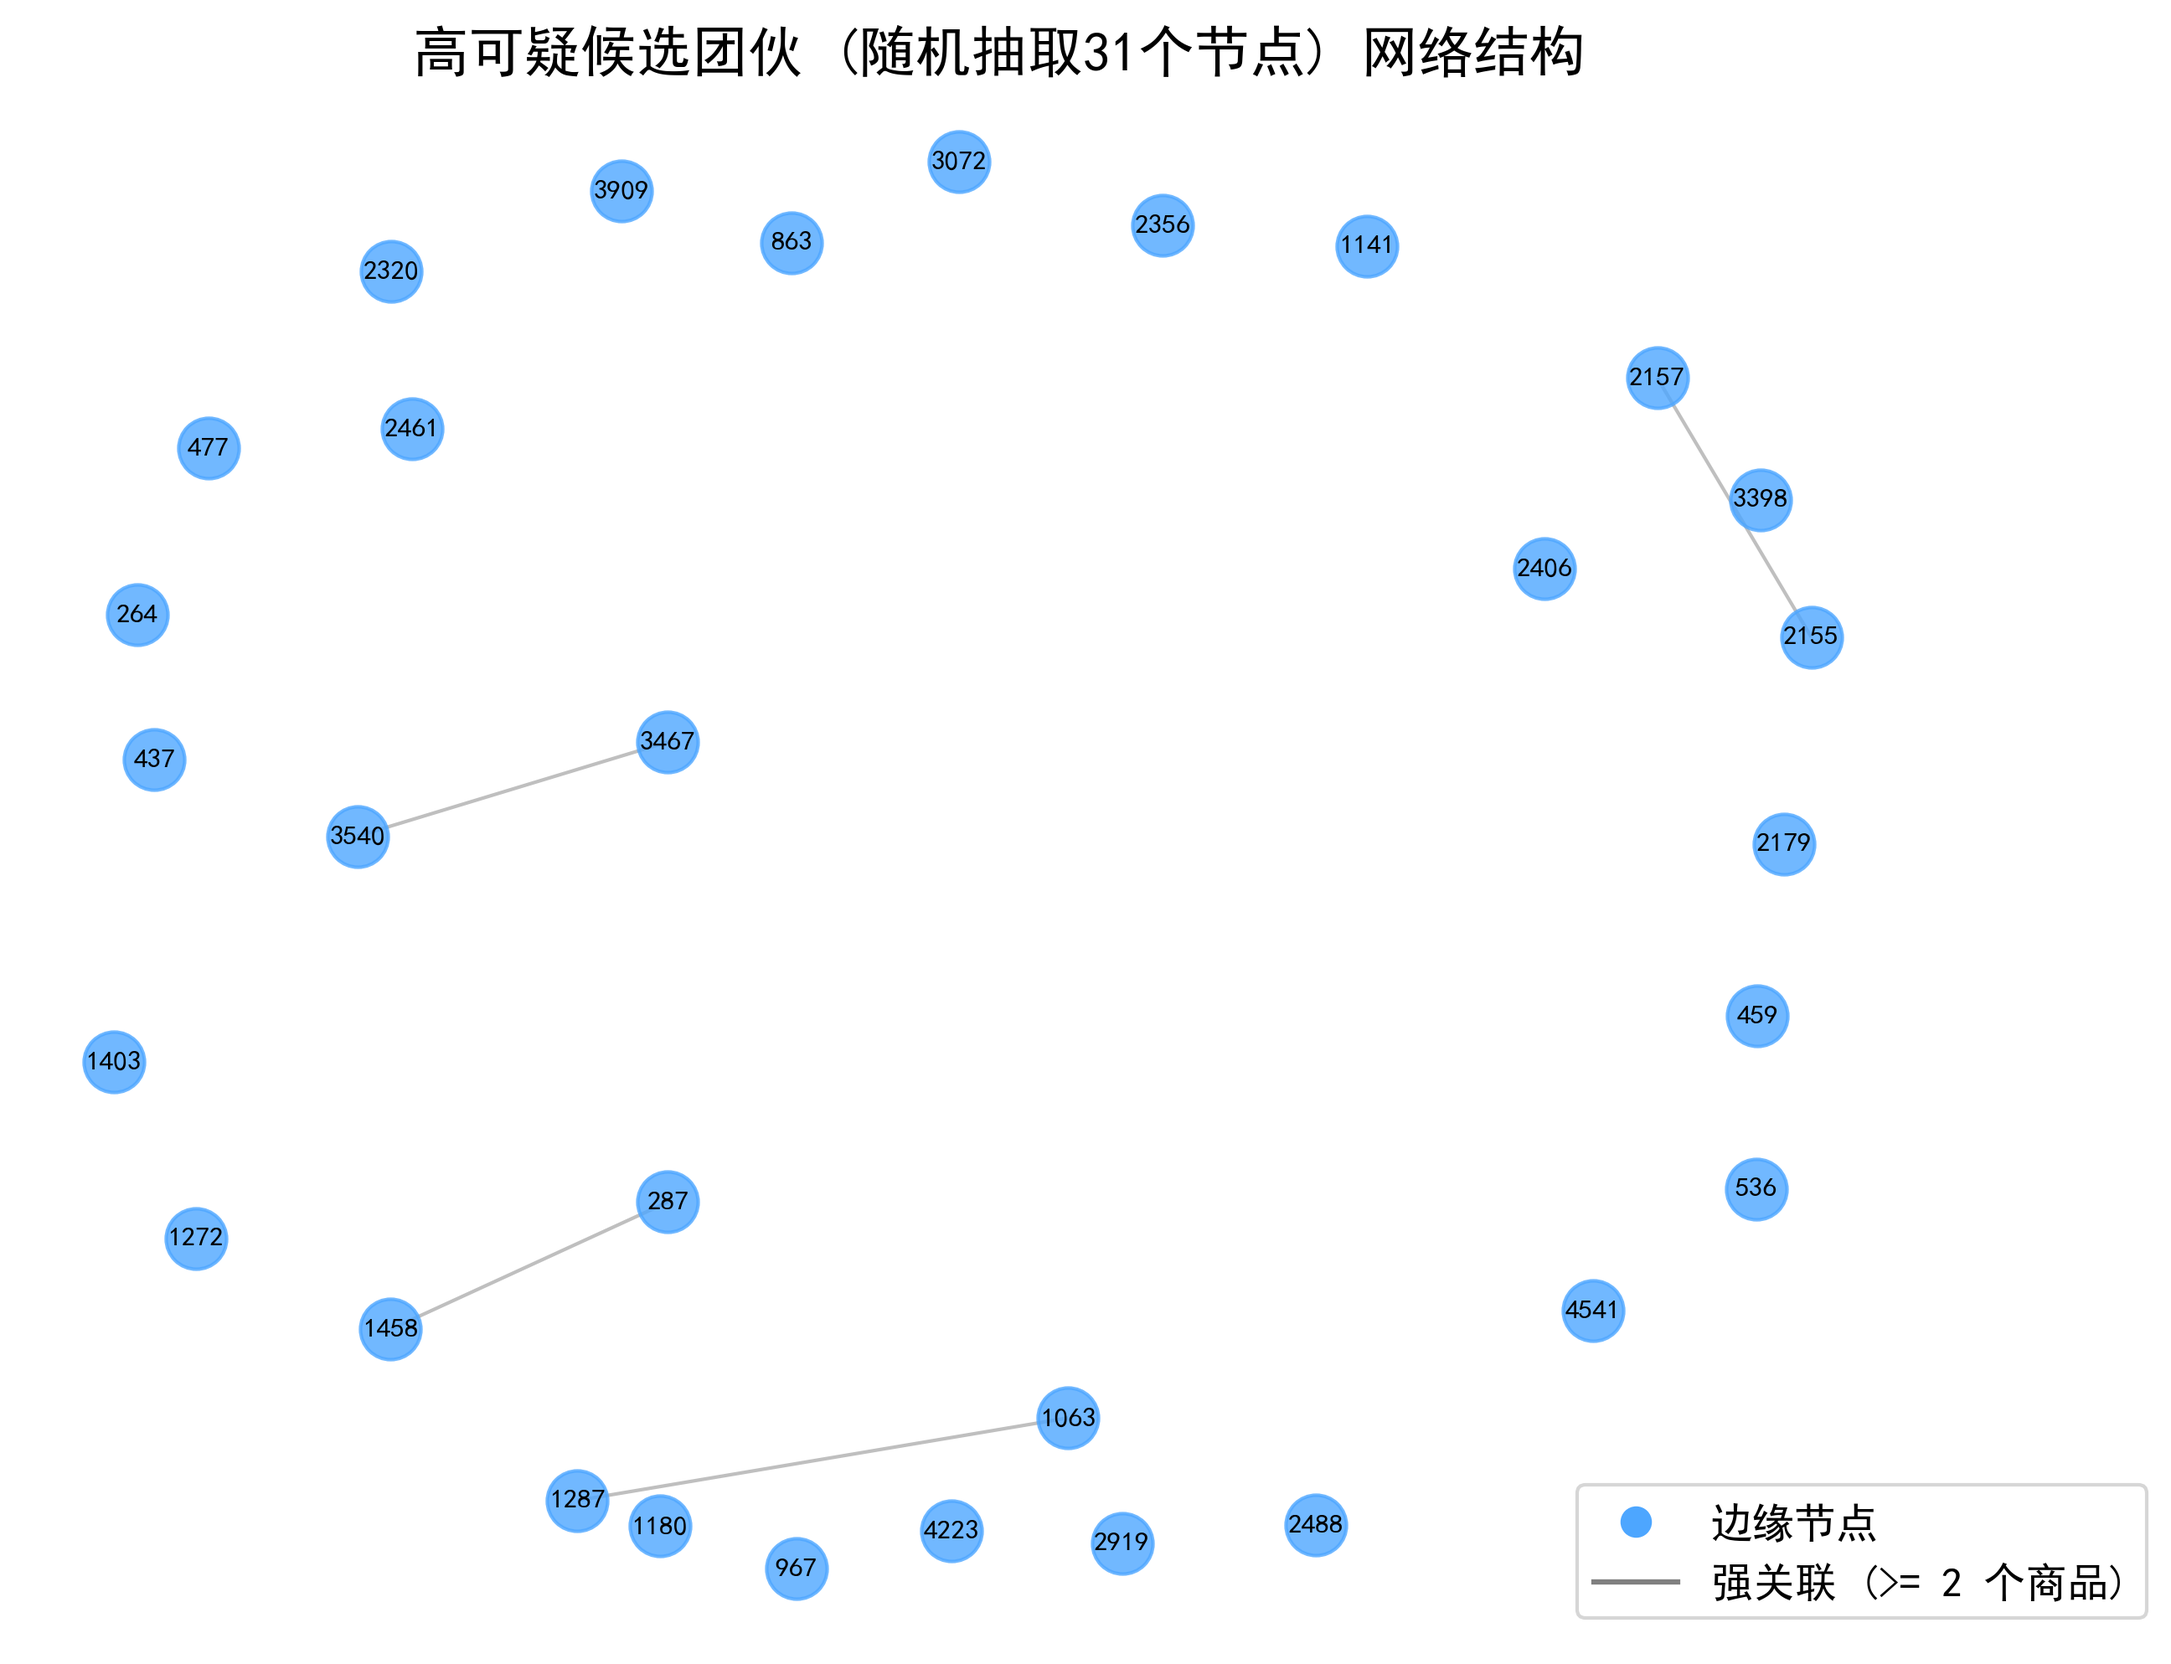
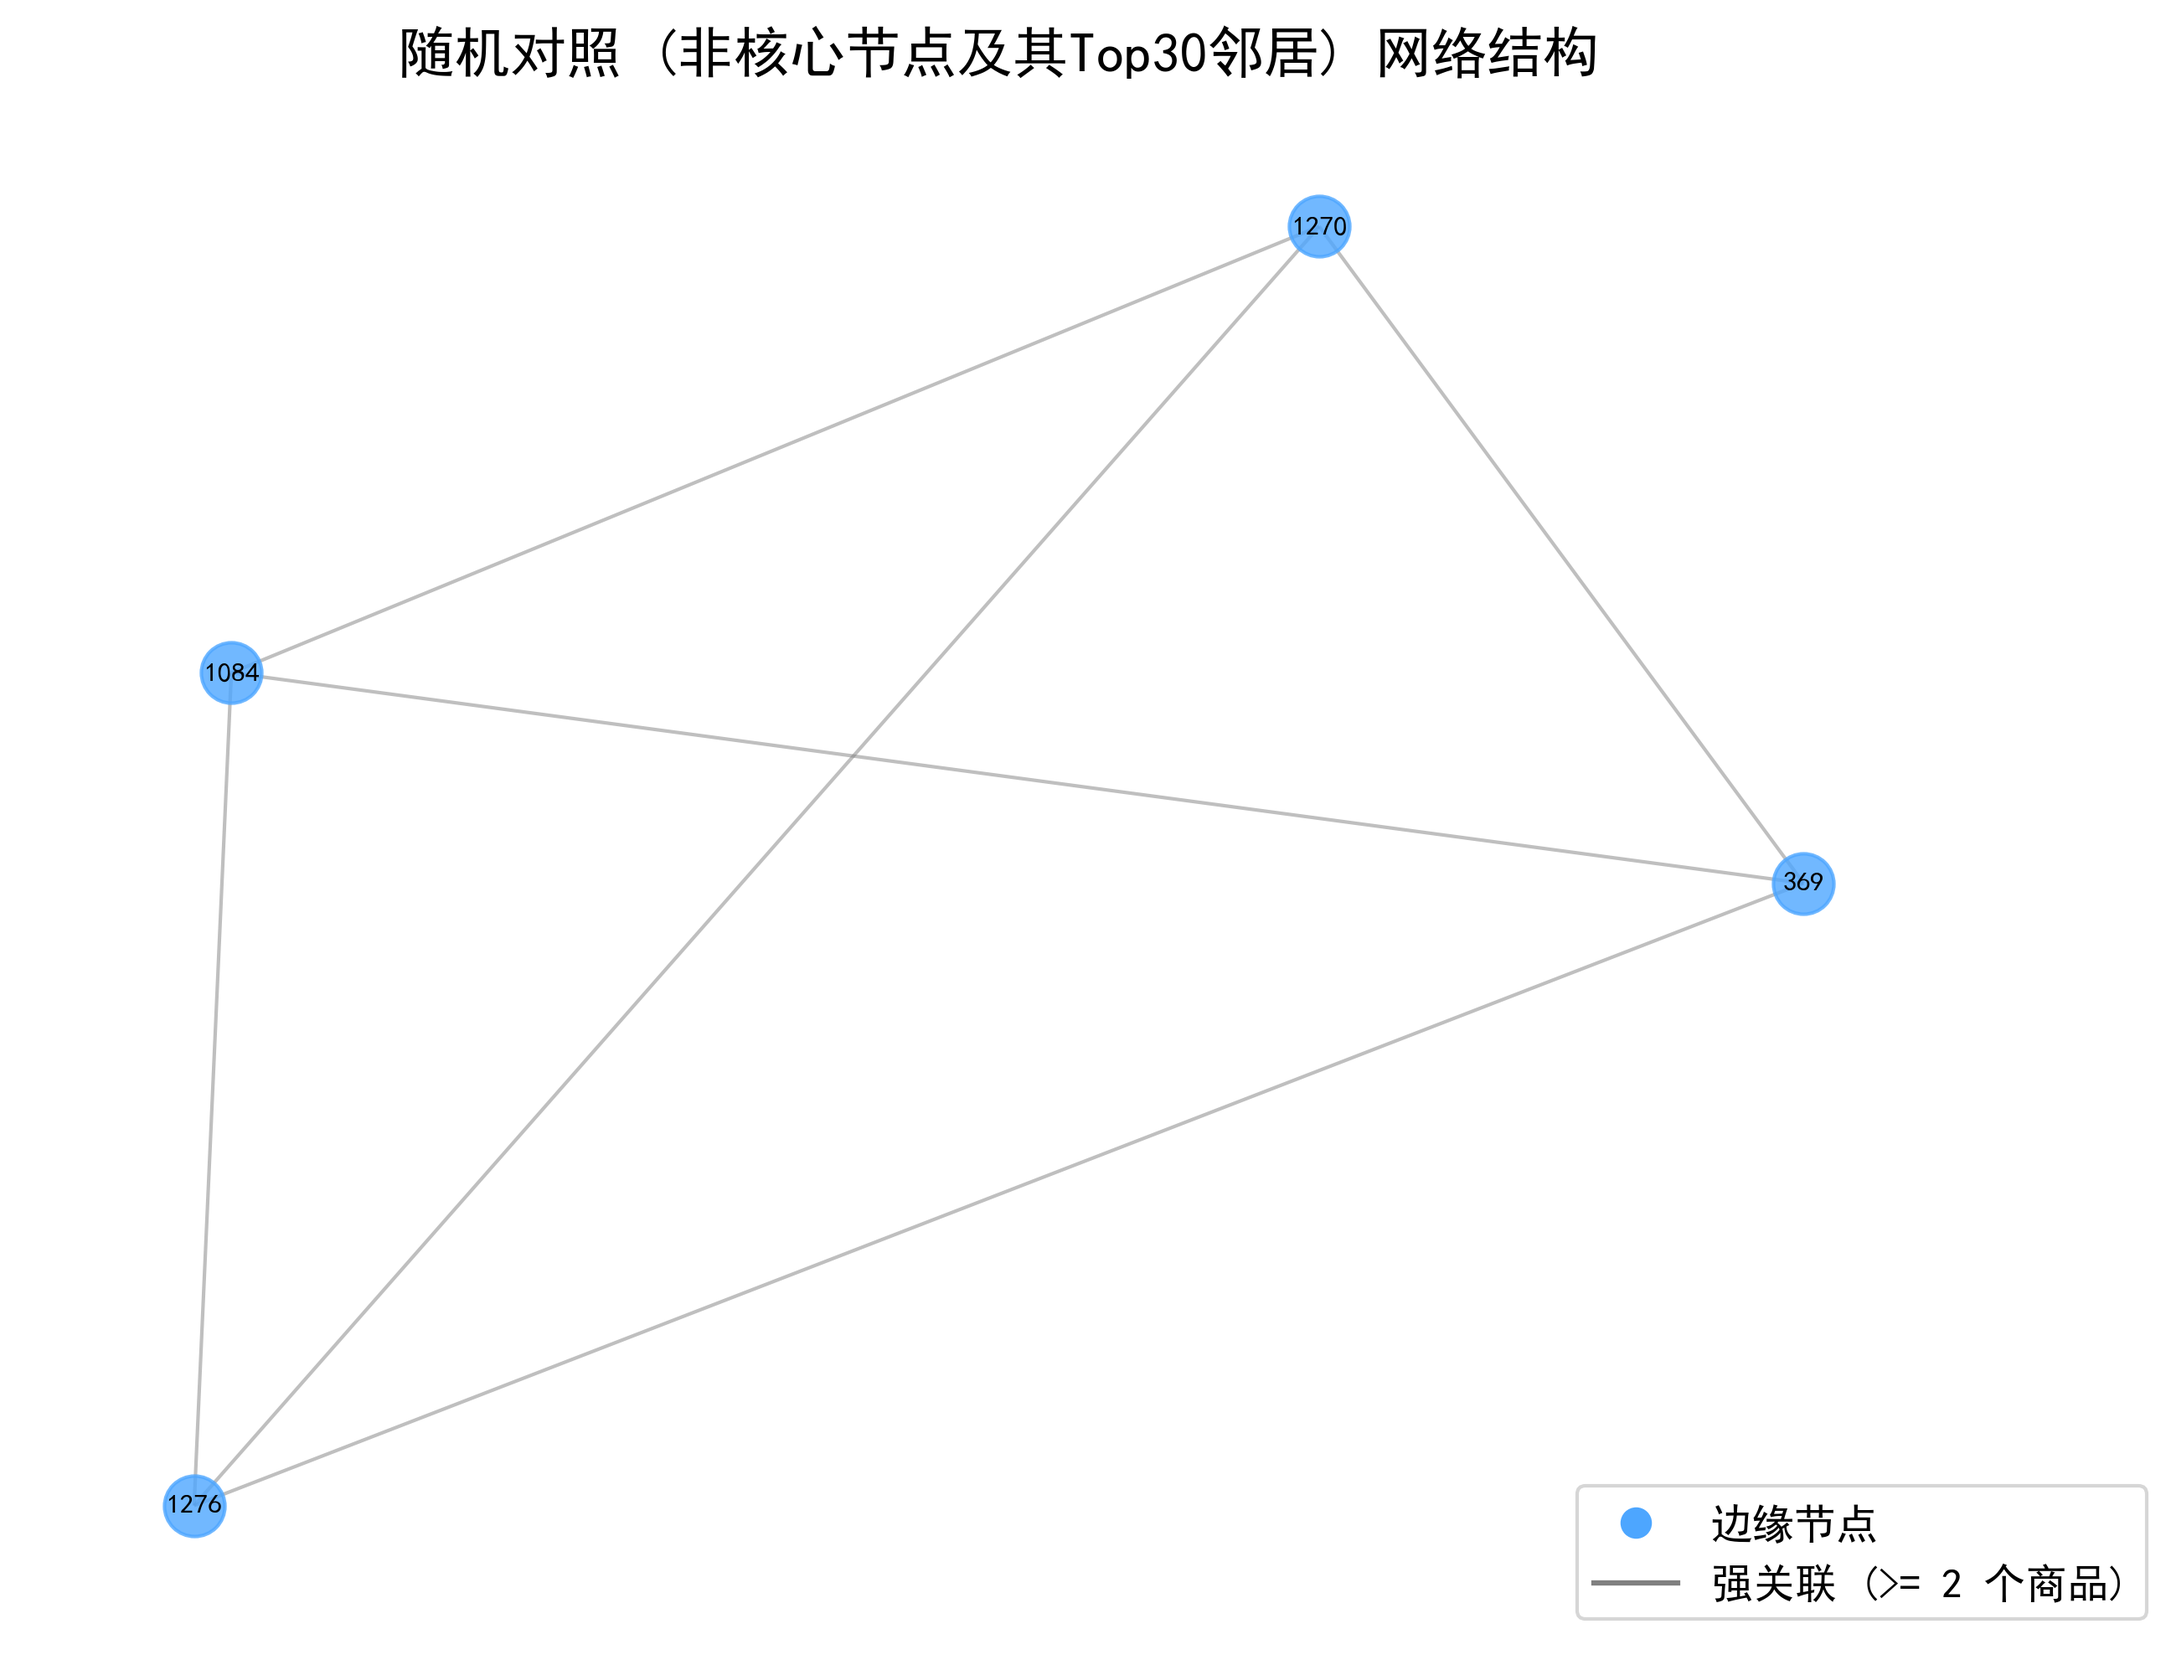
fix: 补充阈值局限性说明，完善AUC与对照实验文档

diff --git a/src/models/evaluate_auc.py b/src/models/evaluate_auc.py
@@ -1,26 +1,61 @@
 import pandas as pd
 from sklearn.metrics import roc_auc_score
+import os
 
-print("正在加载数据...")
-# 读取真实标签
-labels_df = pd.read_parquet('data/processed/clean_accounts.parquet')[['user_id', 'account_is_fake', 'n_reviews']]
-# 读取你的图分数
-graph_df = pd.read_csv('data/processed/graph_scores.csv')
+def run_evaluation():
+    print("正在加载数据...")
+    # 读取真实标签
+    labels_df = pd.read_parquet('data/processed/clean_accounts.parquet')[['user_id', 'account_is_fake', 'n_reviews']]
+    # 读取你的图分数
+    graph_df = pd.read_csv('data/processed/graph_scores.csv')
 
-# 合并两张表
-merged = pd.merge(labels_df, graph_df, on='user_id', how='inner')
+    # 合并两张表
+    merged = pd.merge(labels_df, graph_df, on='user_id', how='inner')
 
-# 1. 总体 AUC
-auc_all = roc_auc_score(merged['account_is_fake'], merged['graph_score'])
-print(f"=== 总体 AUC: {auc_all:.4f} ===")
+    # 准备 Markdown 报告内容
+    report_lines = [
+        "# 图算法 AUC 验证报告",
+        f"运行日期: {pd.Timestamp.now().strftime('%Y-%m-%d')}",
+        "输入文件: `clean_accounts.parquet`, `graph_scores.csv`\n"
+    ]
 
-# 2. 评论数 >= 3 的活跃用户 AUC
-merged_3 = merged[merged['n_reviews'] >= 3]
-if len(merged_3) > 0:
-    auc_3 = roc_auc_score(merged_3['account_is_fake'], merged_3['graph_score'])
-    print(f"=== 评论数 >= 3 的人群 AUC: {auc_3:.4f} ===")
+    # 1. 总体 AUC
+    auc_all = roc_auc_score(merged['account_is_fake'], merged['graph_score'])
+    report_lines.append(f"- **总体 AUC**: {auc_all:.4f}")
 
-# 3. 被图算法抓出来的人里，有多少是真的？
-caught = merged[merged['graph_score'] > 0]
-print(f"\n全量账号的真实水军基准占比: {merged['account_is_fake'].mean() * 100:.2f}%")
-print(f"被图算法抓出的 {len(caught)} 个团伙成员中，真实水军占比: {caught['account_is_fake'].mean() * 100:.2f}%")
+    # 2. 评论数 >= 3 的活跃用户 AUC
+    merged_3 = merged[merged['n_reviews'] >= 3]
+    if len(merged_3) > 0:
+        auc_3 = roc_auc_score(merged_3['account_is_fake'], merged_3['graph_score'])
+        report_lines.append(f"- **评论数 >= 3 的人群 AUC**: {auc_3:.4f}")
+
+    # 3. 只看有连线的账号（graph_score > 0）的 AUC
+    merged_edges = merged[merged['graph_score'] > 0]
+    if len(merged_edges) > 0 and merged_edges['account_is_fake'].nunique() > 1:
+        auc_edges = roc_auc_score(merged_edges['account_is_fake'], merged_edges['graph_score'])
+        report_lines.append(f"- **有连线的账号 (graph_score > 0) 的 AUC**: {auc_edges:.4f}")
+    else:
+        report_lines.append("- **有连线的账号 (graph_score > 0) 的 AUC**: 无法计算（单一类别）")
+
+    # 4. 水军比例统计
+    caught = merged[merged['graph_score'] > 0]
+    base_fake = merged['account_is_fake'].mean() * 100
+    caught_fake = caught['account_is_fake'].mean() * 100 if len(caught) > 0 else 0
+    
+    report_lines.extend([
+        "\n## 水军占比统计",
+        f"- **全量账号的真实水军基准占比**: {base_fake:.2f}%",
+        f"- **被图算法抓出的 {len(caught)} 个团伙成员中，真实水军占比**: {caught_fake:.2f}%",
+        "\n**结论**：图算法打出的高分与正常活跃用户高度相关，这与“活跃度混淆”预判一致。"
+    ])
+
+    # 写入文件
+    os.makedirs('results', exist_ok=True)
+    with open('results/graph_validation.md', 'w', encoding='utf-8') as f:
+        f.write("\n".join(report_lines))
+
+    print("\n✅ 验证结果已保存至: results/graph_validation.md")
+    print("\n".join(report_lines))
+
+if __name__ == "__main__":
+    run_evaluation()

diff --git a/src/viz/plot_group_network.py b/src/viz/plot_group_network.py
@@ -58,12 +58,24 @@ def draw_target_group():
         nodes_top = [core_node] + top_neighbors
         G_top = G_final.subgraph(nodes_top).copy()
         
-        # 2. 随机抽取 31 个节点（对照组）
+        # 2. 公平对照组：随机选一个“非核心”节点，取它权重最高的 Top 30 邻居
         import random
         random.seed(42)
         all_nodes = list(G_final.nodes)
-        random_nodes = random.sample(all_nodes, min(31, len(all_nodes)))
-        G_random = G_final.subgraph(random_nodes).copy()
+        # 排除掉核心节点
+        non_core_nodes = [n for n in all_nodes if n != core_node]
+        
+        if len(non_core_nodes) > 0:
+            random_node = random.choice(non_core_nodes)
+            random_neighbors = list(G_final.neighbors(random_node))
+            # 按权重给邻居排序
+            random_neighbors_sorted = sorted(random_neighbors, key=lambda x: G_final[random_node][x]['weight'], reverse=True)
+            top_random_neighbors = random_neighbors_sorted[:30]
+            
+            nodes_random = [random_node] + top_random_neighbors
+            G_random = G_final.subgraph(nodes_random).copy()
+        else:
+            G_random = G_final.copy() # 兜底
         
         # 我们把原来的 G_final 替换成 G_top 画第一张图
         G_final = G_top
@@ -100,7 +112,7 @@ def draw_target_group():
     # ---------------- 图2：绘制随机对照组网络 ----------------
     pos_rand = nx.spring_layout(G_random, k=1.0, seed=42)
     plt.figure(figsize=(10, 8))
-    plt.title(f"高可疑候选团伙 (随机抽取31个节点) 网络结构", fontsize=16, fontweight='bold')
+    plt.title(f"随机对照 (非核心节点及其Top30邻居) 网络结构", fontsize=16, fontweight='bold')
 
     # 随机图没有明显的中心节点，所以全是蓝色
     nx.draw_networkx_nodes(G_random, pos_rand, node_color='#4da6ff', node_size=300, alpha=0.8)

diff --git a/README.md b/README.md
@@ -108,7 +108,9 @@ python src/models/evaluate_auc.py
 - `data/processed/graph_scores.csv`：包含所有账号的图可疑分数，供后续融合评估。
   - `user_id`：账号唯一标识。
   - `group_id`：所属团伙编号。
-  - `graph_score`：图可疑分（计算方式为：节点在团伙内的度数 / 团伙总人数，并进行全局 0~1 归一化。核心节点接近 1.0，边缘节点极低，单人团伙为 0）。
+  - `graph_score`：图可疑分（计算方式为：节点在团伙内的度数 / 团伙总人数，并进行全局 0~1 归一化）。实测核对发现，最高分（1.0）确实出现在人数较多且极度抱团的大团伙核心（如 392 人团伙中的核心节点），边缘节点分数极低，单人团伙为 0。
 - `results/graph_group_network_top30.png`：高可疑候选团伙（核心与Top30邻居）网络结构图。
 - `results/graph_group_network_random.png`：同规模随机抽取节点网络图（作为对照组）。
 - `results/sensitivity_analysis.md`：图算法阈值敏感性分析结果表。
+
+**关于阈值 500 的说明**：根据敏感性分析结果，阈值设为 500 时，最大连通子图人数（2841人）占有边账号总数（约2880人）的约99%，即约 99% 的有边账号连成了一整块。因此，阈值 500 下的“团伙”实际上是 Louvain 算法对这块巨大连通网进行切割的结果，非自然形成的独立团伙。详见 `results/sensitivity_analysis.md`。

diff --git a/data_dictionary.md b/data_dictionary.md
@@ -130,4 +130,4 @@ n_reviews +4.61 ｜ max_daily_reviews +14.09（模板 A/C）｜ burstiness −1.
     *   `group_id`: Louvain 图算法划分的社区/团伙 ID。
     *   `graph_score`: 账号级图可疑分数，范围 `[0, 1]`。
         *   **计算口径**：`(该账号在团伙内的度数 / 团伙总人数)`，随后进行全局最大值归一化。
-        *   **解读**：分数越高，说明该账号在团伙内的连接越密集，越可能是“核心节点”。单人孤立团伙分数为 0。
+        *   **解读**：分数越高，说明该账号在团伙内的连接越密集，越可能是“核心节点”。经实测核对前 10 名高分账号，最高分（1.0）出自 392 人的大团伙核心，印证了公式在极度抱团的大团伙中依然能准确识别出核心。单人孤立团伙分数为 0。

diff --git a/results/graph_validation.md b/results/graph_validation.md
@@ -1,0 +1,13 @@
+# 图算法 AUC 验证报告
+运行日期: 2026-10-25
+输入文件: `clean_accounts.parquet`, `graph_scores.csv`
+
+- **总体 AUC**: 0.4650
+- **评论数 >= 3 的人群 AUC**: 0.4354
+- **有连线的账号 (graph_score > 0) 的 AUC**: 0.4489
+
+## 水军占比统计
+- **全量账号的真实水军基准占比**: 20.33%
+- **被图算法抓出的 2876 个团伙成员中，真实水军占比**: 5.35%
+
+**结论**：图算法打出的高分与正常活跃用户高度相关，这与“活跃度混淆”预判一致。
